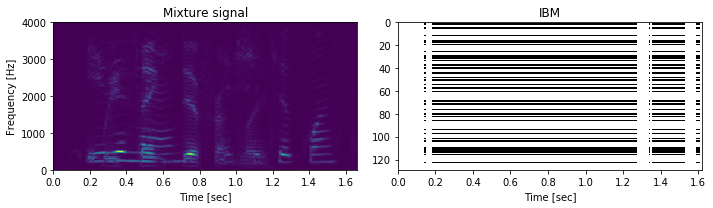
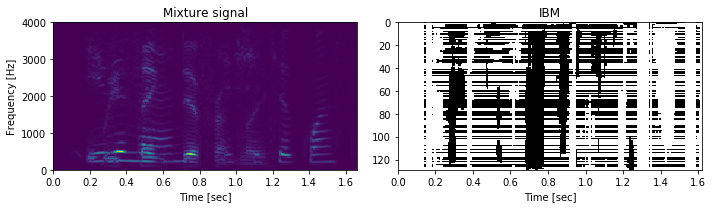
Add files via upload

Changed region(s): [[0.5863, 0.0865, 0.9874, 0.8365]]

diff --git a/Deep-clustering/train_deep_clustering.py b/Deep-clustering/train_deep_clustering.py
@@ -1,5 +1,5 @@
 '''
-Script to train bi-directional RNN model with deep clustering loss function
+Script to train deep clustering model
 '''
 
 
@@ -42,9 +42,9 @@ total_number_of_datapoints = data_generator.total_number_of_datapoints()
 data = data_generator.gen_batch(batch_size);
 # Reshape training data
 # concatenate training samples together to get 101900 x 129 array
-tr_features = np.concatenate([item['Sample'] for item in data], axis=0)
+tr_features = np.concatenate([item['SampleStd'] for item in data], axis=0)
 # concatenate labels together to get 6400 x 129 array
-Y_labels = (np.concatenate([np.asarray(item['Target'])[:,:,0] for item in data], axis=0)).astype(int)
+Y_labels = (np.concatenate([np.asarray(item['IBM'])[:,:,0] for item in data], axis=0)).astype(int)
 
 #Same as neff
 n_features = np.shape(tr_features)[1]
@@ -233,10 +233,10 @@ with tf.Session() as sess:
             data = data_generator.gen_batch(batch_size);
             # Reshape training data
             # concatenate training samples together to get (64, 100, 129) array
-            tr_features = np.concatenate([np.reshape(item['Sample'], [1, frames_per_sample, n_features]) for item in data])
+            tr_features = np.concatenate([np.reshape(item['SampleStd'], [1, frames_per_sample, n_features]) for item in data])
             
             # concatenate labels together to get (64, 100, 129) array
-            Y_labels = (np.concatenate([np.asarray(item['Target']) for item in data])).astype('int')
+            Y_labels = (np.concatenate([np.asarray(item['IBM']) for item in data])).astype('int')
             
             _, loss1  = sess.run([train_step, loss_batch], feed_dict={X: tr_features, Y:Y_labels})
             #Add loss to intermediate array
@@ -258,10 +258,10 @@ with tf.Session() as sess:
                 validation_data = validation_data_generator.gen_batch(batch_size);
                 # Reshape training data
                 # concatenate training samples together to get (64, 100, 129) array
-                ts_features = np.concatenate([np.reshape(item['Sample'], [1, frames_per_sample, n_features]) for item in validation_data])
+                ts_features = np.concatenate([np.reshape(item['SampleStd'], [1, frames_per_sample, n_features]) for item in validation_data])
                 
                 # concatenate labels together to get (64, 100, 129) array
-                ts_labels = (np.concatenate([np.asarray(item['Target']) for item in validation_data])).astype('int')
+                ts_labels = (np.concatenate([np.asarray(item['IBM']) for item in validation_data])).astype('int')
                 
                 validation_loss  = sess.run([loss_batch], feed_dict={X: ts_features, Y:ts_labels})
                 #Add loss to intermediate array
@@ -365,7 +365,7 @@ testdata = data_generator.CreateTrainingDataSpectrogram(wavfile1, wavfile2, samp
 #%% Get embeddings for test signal from model
 
 # Get only active test features
-ts_features = testdata['Sample'][testdata['VAD']]
+ts_features = testdata['SampleStd'][testdata['VAD']]
 
 #Get number of features variable
 n_features = np.shape(ts_features)[1]
@@ -523,33 +523,46 @@ plt.close(fig)
 #%% apply ibm to signal and convert back into time domain
 
 #Convert spectrogram from log to normal
-split_spectrogram = np.power(10, testdata['Sample'])
+split_spectrogram = np.power(10, (testdata['SampleStd'] * data_generator.std) + data_generator.mean)
+
+
 
 #Apply ibm to spectrogram
 split_spectrogram1 = np.multiply(split_spectrogram, np.transpose(ibm))
+split_spectrogram2 = np.multiply(split_spectrogram, np.transpose((np.invert(ibm.astype(bool))).astype(int)))
 
 # create instance of class
 data_generator = DataGenerator() 
 
 #Get recovered mixture from istft routine
-wav_recovered = data_generator.istft(split_spectrogram1, sampling_rate, frame_size)
+wav_recovered1 = data_generator.istft(split_spectrogram1, sampling_rate, frame_size)
+wav_recovered2 = data_generator.istft(split_spectrogram2, sampling_rate, frame_size)
    
 #Amplify wav file
-wav_recovered = np.float32(wav_recovered * 5)
+wav_recovered1 = np.float32(wav_recovered1 * 5)
+wav_recovered2 = np.float32(wav_recovered2 * 5)
+
+del split_spectrogram1
 
 #%% plot signal 
 
 fig = plt.figure() 
 
 #sub plot 1 - Original signal
-ax1 = plt.subplot(211)
+ax1 = plt.subplot(311)
 plt.plot(testdata['MixtureSignal'])
 plt.xlabel('time')
 plt.title('Mixture signal')
 
 #sub plot 2 - Separated signal
-ax2 = plt.subplot(212, sharex=ax1)
-plt.plot(wav_recovered)
+ax2 = plt.subplot(312, sharex=ax1)
+plt.plot(wav_recovered1)
+plt.xlabel('time')
+plt.title('Separated signal')
+
+#sub plot 2 - Separated signal
+ax3 = plt.subplot(313, sharex=ax1)
+plt.plot(wav_recovered2)
 plt.xlabel('time')
 plt.title('Separated signal')
 
@@ -594,10 +607,19 @@ import winsound
 import librosa
 
 #Save combined series to wav file
-librosa.output.write_wav('separated_signal_rnn.wav', wav_recovered, sr=sampling_rate)
+librosa.output.write_wav('separated_signal_deepclustering1.wav', wav_recovered1, sr=sampling_rate)
 
 #play sound recovered
-winsound.PlaySound('separated_signal_rnn.wav', winsound.SND_FILENAME|winsound.SND_ASYNC)
+winsound.PlaySound('separated_signal_deepclustering1.wav', winsound.SND_FILENAME|winsound.SND_ASYNC)
+
+#%%
+
+#Save combined series to wav file
+librosa.output.write_wav('separated_signal_deepclustering2.wav', wav_recovered2, sr=sampling_rate)
+
+#play sound recovered
+winsound.PlaySound('separated_signal_deepclustering2.wav', winsound.SND_FILENAME|winsound.SND_ASYNC)
+
 
 
 
